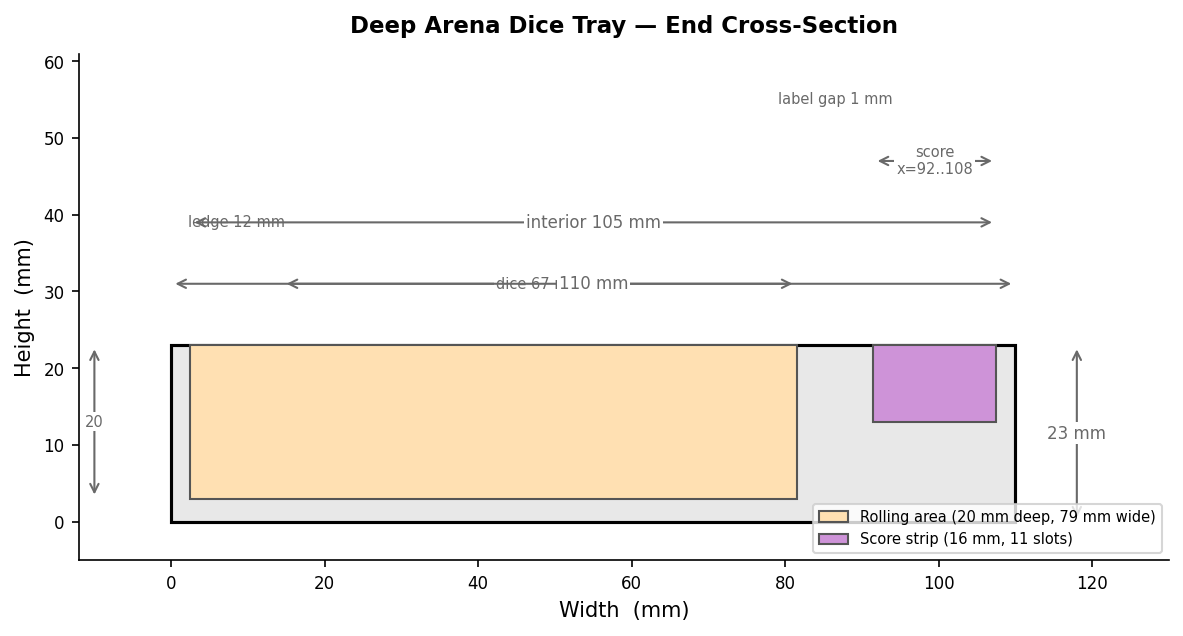
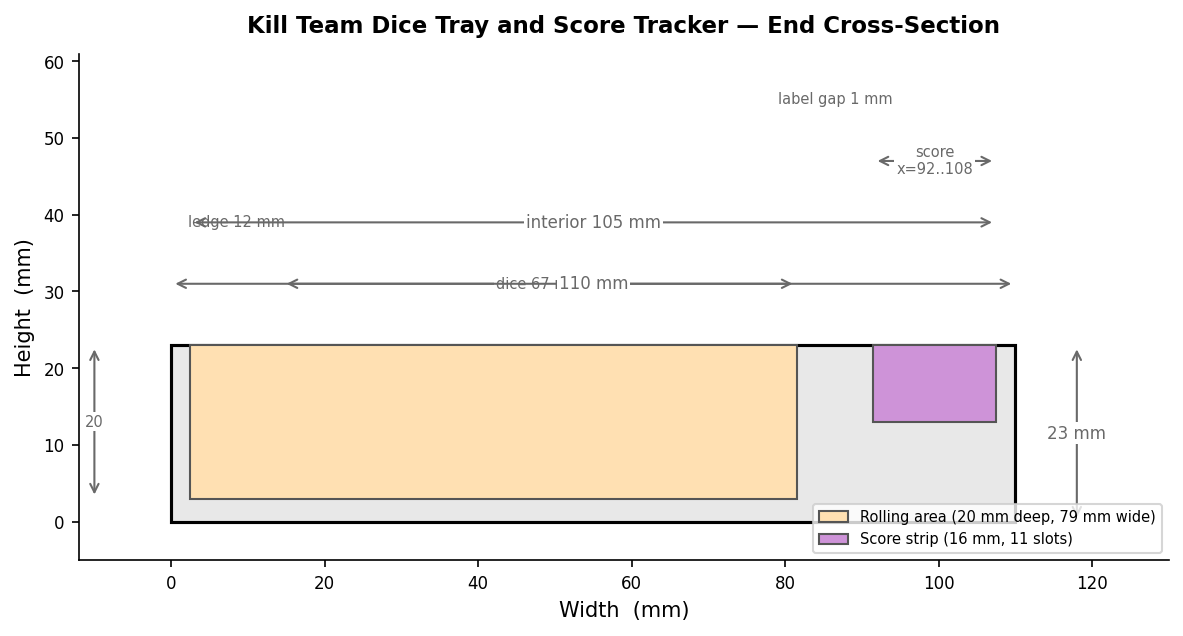
v3: auto-fit and center parametric label text
- fit label glyphs to target recess zones using measured bounds
- center text within P1/P2 tray label zones and score label zones
- replace fixed text margins with configurable zone padding
- regenerate v3 technical diagrams

Changed region(s): [[0.213, 0.0, 0.8521, 0.0597]]

diff --git a/wargaming/KT-dice-tray/v3-score-tracker/deep_arena_dice_tray.py b/wargaming/KT-dice-tray/v3-score-tracker/deep_arena_dice_tray.py
@@ -1,8 +1,9 @@
 import FreeCAD as App
 import Part
+import os
 
 # Create a new document
-doc = App.newDocument("DeepArenaDiceTray_v3")
+doc = App.newDocument("KillTeamDiceTrayAndScoreTracker_v3")
 
 # --- Dimensions ---
 width       = 110.0   # Fixed width (X axis)
@@ -24,8 +25,22 @@ base_h      = 23.0    # Total tray height (3mm floor under rolling cut, optimize
 slot_cut_h  = 10.0    # Normals/crits die slots
 score_cut_h = 10.0    # Score strip die slots
 
-# Text labeling (optional)
-add_text    = False   # Set to True to add engraved reference text (recommended: manual labeling instead)
+# Parametric label text (optional, printable geometry)
+add_parametric_labels = True
+
+# Text is built inside recessed label zones and raised back up for accent-color printing.
+text_font_size_tray = 5.0
+text_font_size_score = 4.0
+text_raise_h = 1.5        # Raise text from recessed label zones (1.5mm returns to top plane)
+text_padding_x = 0.8      # Keep text clear of zone side walls
+text_padding_y = 0.8      # Keep text clear of zone top/bottom walls
+
+# macOS default candidates; first existing path is used.
+text_font_candidates = [
+    "/System/Library/Fonts/Supplemental/Arial Bold.ttf",
+    "/System/Library/Fonts/Supplemental/Arial.ttf",
+    "/System/Library/Fonts/Helvetica.ttc",
+]
 
 # Accent zones for color filling (optional)
 add_accent_zones    = True
@@ -104,6 +119,162 @@ def _cut_box(x, y, z_from_top, bx, by, bz):
 
 def _top_recess(x, y, bx, by, depth):
     _cut_box(x, y, depth, bx, by, depth)
+
+
+def _resolve_font_path():
+    for font_path in text_font_candidates:
+        if os.path.exists(font_path):
+            return font_path
+    return None
+
+
+def _make_shapestring_shape(text, size, rotation_deg, font_path):
+    # Import Draft lazily so geometry still builds when text is disabled.
+    import Draft
+
+    ss = Draft.make_shapestring(String=text, FontFile=font_path, Size=size, Tracking=0.0)
+    ss.Placement = App.Placement(
+        App.Vector(0, 0, 0),
+        App.Rotation(App.Vector(0, 0, 1), rotation_deg),
+    )
+    doc.recompute()
+
+    shape = ss.Shape.copy()
+    doc.removeObject(ss.Name)
+
+    return shape
+
+
+def _build_fitted_text_solid(text, zone_x, zone_y, zone_w, zone_h, z, max_size, rotation_deg, raise_h, font_path):
+    if zone_w <= 0 or zone_h <= 0:
+        return None
+
+    # 1) Build at max size and measure real glyph bounds.
+    shape = _make_shapestring_shape(text, max_size, rotation_deg, font_path)
+    bb = shape.BoundBox
+    if bb.XLength <= 0 or bb.YLength <= 0:
+        return None
+
+    avail_w = max(zone_w - (2 * text_padding_x), 0.1)
+    avail_h = max(zone_h - (2 * text_padding_y), 0.1)
+    fit_scale = min(1.0, avail_w / bb.XLength, avail_h / bb.YLength)
+
+    # 2) Rebuild at fitted size for cleaner edges.
+    if fit_scale < 1.0:
+        fitted_size = max_size * fit_scale
+        shape = _make_shapestring_shape(text, fitted_size, rotation_deg, font_path)
+        bb = shape.BoundBox
+
+    # 3) Center the text shape inside the target zone.
+    tx = zone_x + (zone_w - bb.XLength) / 2.0 - bb.XMin
+    ty = zone_y + (zone_h - bb.YLength) / 2.0 - bb.YMin
+    shape.translate(App.Vector(tx, ty, z))
+
+    faces = list(shape.Faces)
+
+    if not faces:
+        return None
+
+    solids = [face.extrude(App.Vector(0, 0, raise_h)) for face in faces]
+    return Part.makeCompound(solids)
+
+
+def apply_parametric_labels():
+    global base
+
+    if not add_parametric_labels:
+        return
+
+    font_path = _resolve_font_path()
+    if not font_path:
+        App.Console.PrintWarning("No valid font file found for parametric labels; skipping text geometry.\n")
+        return
+
+    # Row anchors (Y) reused for label placement.
+    p1_crits_y = wall
+    p1_normals_y = p1_crits_y + slot_d + wall
+    roll_y = p1_normals_y + slot_d + wall
+    p2_normals_y = roll_y + roll_d + wall
+    p2_crits_y = p2_normals_y + slot_d + wall
+
+    # Top level of the recessed label zones.
+    label_zone_top_z = base_h - (outer_recess_d + label_zone_extra_d)
+
+    # P1 tray labels (left label ledge, top rows).
+    p1_label_x = wall
+    p1_specs = [
+        ("CRIT", p1_crits_y),
+        ("NORM", p1_normals_y),
+    ]
+    for text, y_pos in p1_specs:
+        solid = _build_fitted_text_solid(
+            text=text,
+            zone_x=p1_label_x,
+            zone_y=y_pos,
+            zone_w=label_ledge,
+            zone_h=slot_d,
+            z=label_zone_top_z,
+            max_size=text_font_size_tray,
+            rotation_deg=-90.0,
+            raise_h=text_raise_h,
+            font_path=font_path,
+        )
+        if solid is not None:
+            base = base.fuse(solid)
+
+    # P2 tray labels (right side of P2 rows, connected to P2 tray edge).
+    p2_label_x = wall + dice_w
+    p2_specs = [
+        ("NORM", p2_normals_y),
+        ("CRIT", p2_crits_y),
+    ]
+    for text, y_pos in p2_specs:
+        solid = _build_fitted_text_solid(
+            text=text,
+            zone_x=p2_label_x,
+            zone_y=y_pos,
+            zone_w=label_ledge,
+            zone_h=slot_d,
+            z=label_zone_top_z,
+            max_size=text_font_size_tray,
+            rotation_deg=-90.0,
+            raise_h=text_raise_h,
+            font_path=font_path,
+        )
+        if solid is not None:
+            base = base.fuse(solid)
+
+    # Score-label text: one label per score box in the score-label zone.
+    score_label_x = score_strip_x - score_label_zone
+    score_label_recess_x = score_label_x + score_label_clearance
+    score_label_recess_w = score_label_zone - (2 * score_label_clearance)
+    if score_label_recess_w <= 0:
+        return
+
+    score_labels = [
+        "CP", "TEAM", "CRIT", "TAC", "KILL", "TP/INI",
+        "TP/INI", "KILL", "TAC", "CRIT", "TEAM", "CP",
+    ]
+    score_label_z = label_zone_top_z
+    y_pos = wall + score_buffer
+
+    for i in range(min(n_score, len(score_labels))):
+        text = score_labels[i]
+        solid = _build_fitted_text_solid(
+            text=text,
+            zone_x=score_label_recess_x,
+            zone_y=y_pos,
+            zone_w=score_label_recess_w,
+            zone_h=score_slot_d,
+            z=score_label_z,
+            max_size=text_font_size_score,
+            rotation_deg=-90.0,
+            raise_h=text_raise_h,
+            font_path=font_path,
+        )
+        if solid is not None:
+            base = base.fuse(solid)
+        y_pos += score_slot_d + slot_div
 
 
 def apply_accent_zones():
@@ -209,30 +380,12 @@ current_y += slot_d + wall
 
 cut_dice_row(current_y, p2_dice_x)    # P2 CRITS
 
+apply_parametric_labels()
+
 # 3. Add to document
-part_obj = doc.addObject("Part::Feature", "DeepArenaTray_v3")
+part_obj = doc.addObject("Part::Feature", "KillTeamDiceTrayAndScoreTracker_v3")
 part_obj.Shape = base
 
 doc.recompute()
-
-# --- Optional: Add reference text labels (visual only, not engraved) ---
-if add_text:
-    from Draft import make_text
-    import Draft
-    
-    # P1 label on left side (in label ledge area)
-    text_p1 = make_text("P1", placement=App.Placement(App.Vector(6, 10, base_h), App.Rotation()))
-    text_p1.FontSize = 3.0
-    doc.addObject(text_p1)
-    
-    # P2 label on left side (in bottom label ledge)
-    text_p2 = make_text("P2", placement=App.Placement(App.Vector(6, 207, base_h), App.Rotation()))
-    text_p2.FontSize = 3.0
-    doc.addObject(text_p2)
-    
-    # Score strip label on right side
-    text_score = make_text("SCORE", placement=App.Placement(App.Vector(95, 8, base_h), App.Rotation()))
-    text_score.FontSize = 2.5
-    doc.addObject(text_score)
 
 Gui.SendMsgToActiveView("ViewFit")

diff --git a/wargaming/KT-dice-tray/generate_diagrams.py b/wargaming/KT-dice-tray/generate_diagrams.py
@@ -1,5 +1,5 @@
 """
-Technical diagram generator for the Deep Arena Dice Tray.
+Technical diagram generator for the Kill Team Dice Tray and Score Tracker.
 Run this script to produce PNG diagrams for a given version folder.
 
 Usage:
@@ -209,7 +209,7 @@ fig, ax = plt.subplots(figsize=(9, 16))
 ax.set_xlim(-10, width + 40)
 ax.set_ylim(-12, total_depth + 22)
 ax.set_aspect("equal")
-ax.set_title("Deep Arena Dice Tray — Top View (Plan)", fontsize=13, fontweight="bold", pad=12)
+ax.set_title("Kill Team Dice Tray and Score Tracker — Top View (Plan)", fontsize=13, fontweight="bold", pad=12)
 ax.set_xlabel("Width  (mm)")
 ax.set_ylabel("Depth  (mm)")
 ax.tick_params(labelsize=8)
@@ -322,7 +322,7 @@ fig, ax = plt.subplots(figsize=(fig_w, 6))
 ax.set_xlim(-10, total_depth + 28)
 ax.set_ylim(-5, base_h + 18)
 ax.set_aspect("equal")
-ax.set_title("Deep Arena Dice Tray — Longitudinal Cross-Section (Side View)",
+ax.set_title("Kill Team Dice Tray and Score Tracker — Longitudinal Cross-Section (Side View)",
              fontsize=13, fontweight="bold", pad=12)
 ax.set_xlabel("Depth along tray  (mm)")
 ax.set_ylabel("Height  (mm)")
@@ -385,7 +385,7 @@ fig, ax = plt.subplots(figsize=(8, 7))
 ax.set_xlim(-12, width + 20)
 ax.set_ylim(-5, base_h + 38)
 ax.set_aspect("equal")
-ax.set_title("Deep Arena Dice Tray — End Cross-Section", fontsize=11, fontweight="bold", pad=10)
+ax.set_title("Kill Team Dice Tray and Score Tracker — End Cross-Section", fontsize=11, fontweight="bold", pad=10)
 ax.set_xlabel("Width  (mm)")
 ax.set_ylabel("Height  (mm)")
 ax.tick_params(labelsize=8)
